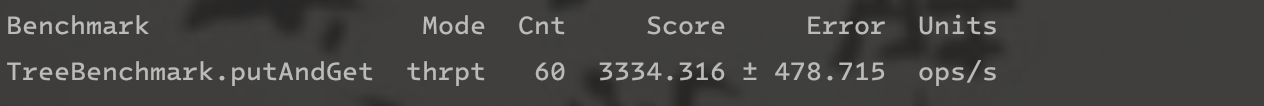
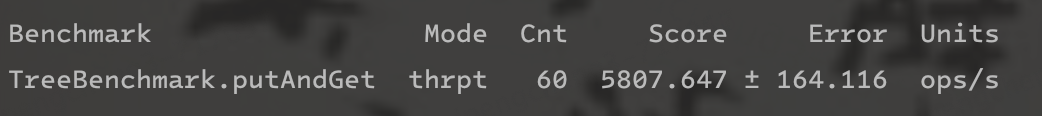
优化查找逻辑

diff --git a/src/main/java/com/yumi/lsm/sst/Node.java b/src/main/java/com/yumi/lsm/sst/Node.java
@@ -50,12 +50,24 @@ public class Node {
             return Optional.empty();
         }
         Kv[] kvs = this.sstReader.readData(index.getBlockOffset(), index.getBlockSize());
-        for (Kv kv : kvs) {
-            if (Arrays.equals(kv.getKey(), key)) {
-                return Optional.of(kv.getValue());
-            }
+        byte[] value = binarySearchKv(kvs, 0, kvs.length - 1, key);
+        return Optional.of(value);
+    }
+
+    private byte[] binarySearchKv(Kv[] kvs, int l, int h, byte[] targetKey) {
+        if (l == h) {
+            assert AllUtils.compare(kvs[l].getKey(), targetKey) == 0;
+            return kvs[l].getValue();
         }
-        return Optional.empty();
+        int mid = l + ((h - l) >> 1);
+        byte[] midKey = kvs[mid].getKey();
+        if (AllUtils.compare(midKey, targetKey) == 0) {
+            return kvs[mid].getValue();
+        } else if (AllUtils.compare(midKey, targetKey) < 0) {
+            return binarySearchKv(kvs, mid + 1, l, targetKey);
+        } else {
+            return binarySearchKv(kvs, l, mid -1 , targetKey);
+        }
     }
 
     private Optional<Index> binarySearchIndex(byte[] key, int l, int h) {
